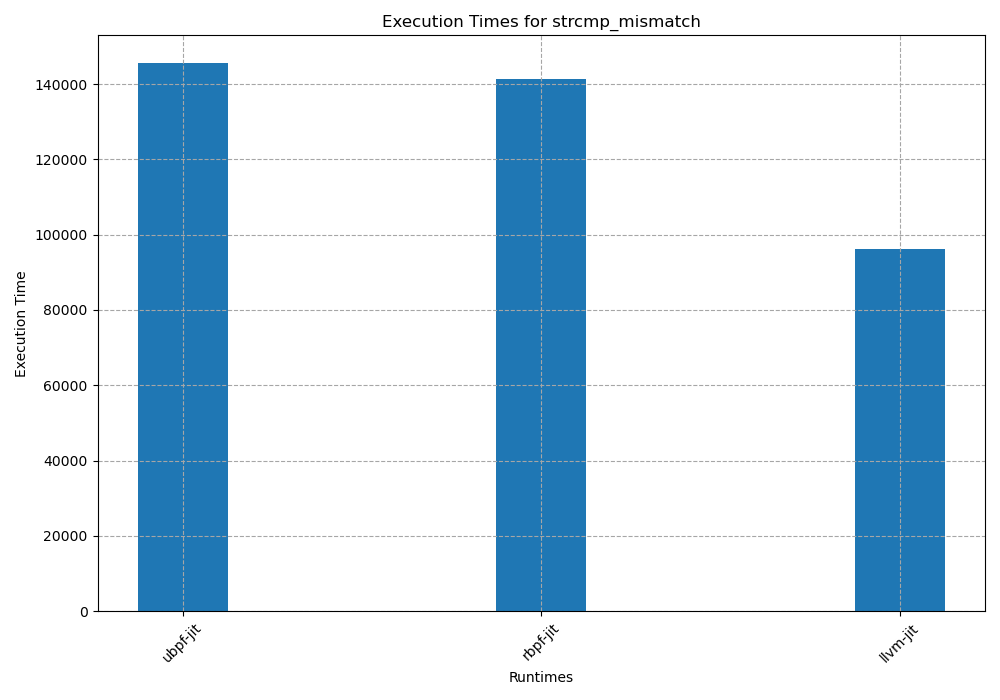
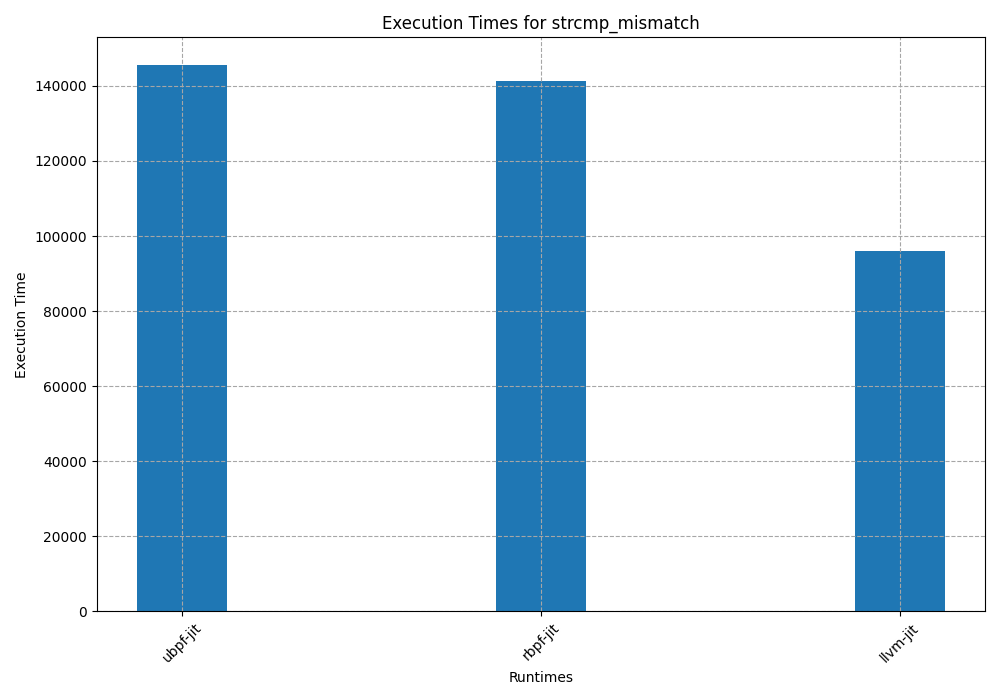
update width

diff --git a/example-output/plot.py b/example-output/plot.py
@@ -25,7 +25,7 @@ num_runtimes = len(executables)
 
 # Plot Execution Usage
 plt.figure(figsize=(15, 10))
-bar_width = 0.10
+bar_width = 0.20
 total_width = num_runtimes * bar_width
 indices = np.arange(len(plot_data))
 
@@ -125,7 +125,7 @@ num_cols = num_tests
 fig, axes = plt.subplots(num_rows, num_cols, figsize=(20, 6))
 if num_tests == 1:
     axes = np.array([axes])
-bar_width = 0.20 # 适当减小条形宽度以增加空间
+bar_width = 0.8 # 适当减小条形宽度以增加空间
 indices = np.arange(len(selected_runtimes))
 colors = plt.cm.tab10(np.linspace(0, 1, len(selected_runtimes))) # 使用tab10颜色图提供更好的颜色对比
 
